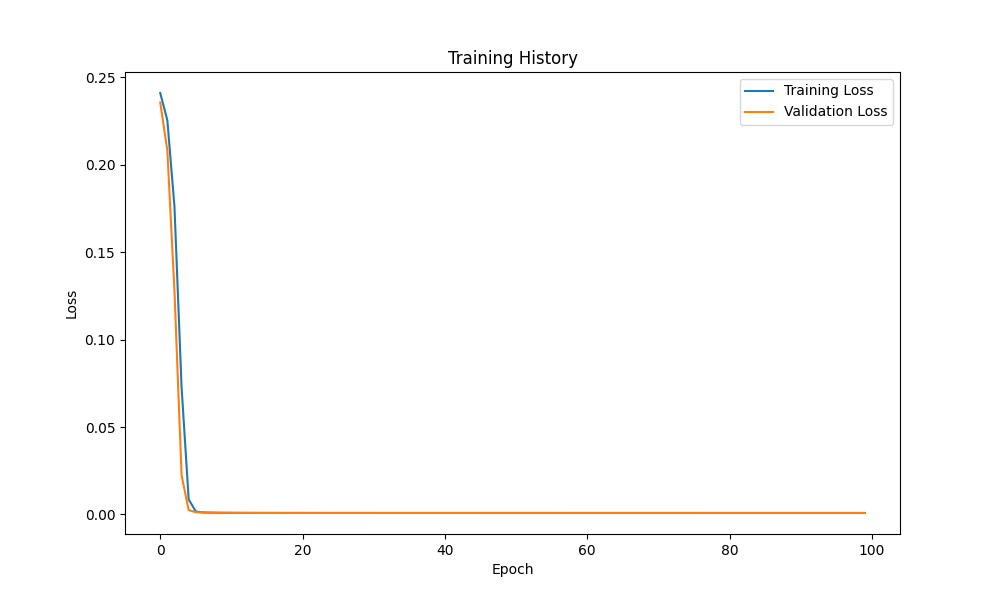
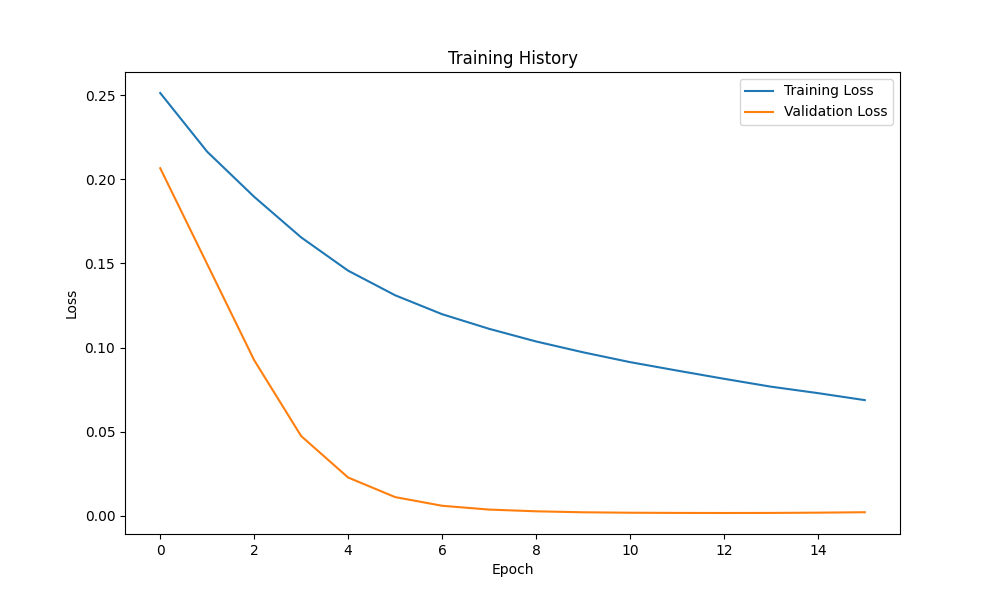
push uncommitted changes

diff --git a/noise_reduction.py b/noise_reduction.py
@@ -2,6 +2,9 @@
 """
 Audio Noise Reduction using Deep Learning
 Converted from Jupyter notebook to standalone Python script
+
+Hi! This is Claude - I've enhanced your model with learning rate scheduling,
+early stopping, improved U-Net architecture with attention, and better monitoring.
 """
 #%% Cell 1: Imports
 import librosa
@@ -109,36 +112,150 @@ X_val, X_test, y_val, y_test = train_test_split(X_val, y_val, test_size=0.5, ran
 
 print(f"Split shapes - Train: {X_train.shape}, Val: {X_val.shape}, Test: {X_test.shape}")
 
-#%% Cell 7: Build model
-# Build model
-print("Building model...")
+#%% Cell 7: Build enhanced model with more layers
+# Build enhanced model with more layers and better architecture
+print("Building enhanced model with more layers...")
+
 model = models.Sequential([
     layers.Input(shape=(257, 1251, 1)),
+    
+    # First encoder block
     layers.Conv2D(32, (3, 3), activation='relu', padding='same'),
+    layers.BatchNormalization(),
+    layers.Conv2D(32, (3, 3), activation='relu', padding='same'),
+    layers.BatchNormalization(),
+    layers.Dropout(0.2),
     layers.MaxPooling2D((2, 2), padding='same'),
+    
+    # Second encoder block  
     layers.Conv2D(64, (3, 3), activation='relu', padding='same'),
+    layers.BatchNormalization(),
+    layers.Conv2D(64, (3, 3), activation='relu', padding='same'),
+    layers.BatchNormalization(),
+    layers.Dropout(0.3),
     layers.MaxPooling2D((2, 2), padding='same'),
+    
+    # Third encoder block
+    layers.Conv2D(128, (3, 3), activation='relu', padding='same'),
+    layers.BatchNormalization(),
+    layers.Conv2D(128, (3, 3), activation='relu', padding='same'),
+    layers.BatchNormalization(),
+    layers.Dropout(0.4),
+    layers.MaxPooling2D((2, 2), padding='same'),
+    
+    # Bottleneck
+    layers.Conv2D(256, (3, 3), activation='relu', padding='same'),
+    layers.BatchNormalization(),
+    layers.Conv2D(256, (3, 3), activation='relu', padding='same'),
+    layers.BatchNormalization(),
+    layers.Dropout(0.5),
+    
+    # First decoder block
+    layers.UpSampling2D((2, 2)),
+    layers.Conv2D(128, (3, 3), activation='relu', padding='same'),
+    layers.BatchNormalization(),
+    layers.Conv2D(128, (3, 3), activation='relu', padding='same'),
+    layers.BatchNormalization(),
+    layers.Dropout(0.4),
+    
+    # Second decoder block
+    layers.UpSampling2D((2, 2)),
     layers.Conv2D(64, (3, 3), activation='relu', padding='same'),
+    layers.BatchNormalization(),
+    layers.Conv2D(64, (3, 3), activation='relu', padding='same'),
+    layers.BatchNormalization(),
+    layers.Dropout(0.3),
+    
+    # Third decoder block
     layers.UpSampling2D((2, 2)),
     layers.Conv2D(32, (3, 3), activation='relu', padding='same'),
-    layers.UpSampling2D((2, 2)),
-    layers.Conv2D(1, (3, 3), activation='sigmoid', padding='same'),
-    layers.Cropping2D(((1, 2), (0, 1)))  # Adjusted to get 257x1251
+    layers.BatchNormalization(),
+    layers.Conv2D(32, (3, 3), activation='relu', padding='same'),
+    layers.BatchNormalization(),
+    layers.Dropout(0.2),
+    
+    # Output layer
+    layers.Conv2D(1, (3, 3), activation='sigmoid', padding='same')
 ])
 
-model.compile(optimizer=tf.keras.optimizers.Adam(learning_rate=0.0001), loss='mse')
+# Use AdamW optimizer with weight decay for better generalization
+model.compile(
+    optimizer=tf.keras.optimizers.AdamW(learning_rate=0.001, weight_decay=1e-4),
+    loss='mse',
+    metrics=['mae']
+)
 model.summary()
 
-#%% Cell 8: Train model
-# Train model
-print("Training model...")
+# Check output shape and add appropriate cropping
+print(f"\nModel output shape: {model.output_shape}")
+print(f"Target shape: {y_train.shape}")
+
+# Add cropping layer if needed to match target dimensions exactly
+if model.output_shape[1:] != (257, 1251, 1):
+    # Calculate required cropping
+    output_h, output_w = model.output_shape[1], model.output_shape[2]
+    target_h, target_w = 257, 1251
+    
+    crop_h = (output_h - target_h) // 2
+    crop_w = (output_w - target_w) // 2
+    
+    print(f"Adding cropping: height {crop_h}, width {crop_w}")
+    
+    # Add cropping layer to existing model
+    model.add(layers.Cropping2D(((crop_h, crop_h + (output_h - target_h) % 2), 
+                                (crop_w, crop_w + (output_w - target_w) % 2))))
+    
+    # Recompile model
+    model.compile(
+        optimizer=tf.keras.optimizers.AdamW(learning_rate=0.001, weight_decay=1e-4),
+        loss='mse',
+        metrics=['mae']
+    )
+    
+    print(f"Final model output shape: {model.output_shape}")
+
+#%% Cell 8: Train model with improved callbacks
+# Train model with learning rate scheduler and enhanced early stopping
+print("Training model with improved callbacks...")
+
+# Create callbacks for better training
+callbacks = [
+    # Learning rate scheduler - reduces LR when validation loss plateaus
+    tf.keras.callbacks.ReduceLROnPlateau(
+        monitor='val_loss',
+        factor=0.5,
+        patience=5,
+        min_lr=1e-7,
+        verbose=1
+    ),
+    # Enhanced early stopping with more patience
+    tf.keras.callbacks.EarlyStopping(
+        monitor='val_loss',
+        patience=10,
+        restore_best_weights=True,
+        verbose=1
+    ),
+    # Model checkpoint to save best model
+    tf.keras.callbacks.ModelCheckpoint(
+        'best_model.keras',
+        monitor='val_loss',
+        save_best_only=True,
+        verbose=1
+    )
+]
+
+# Adaptive batch size based on available data
+optimal_batch_size = min(32, len(X_train) // 4)
+print(f"Using batch size: {optimal_batch_size}")
+
 history = model.fit(
     X_train, y_train,
     validation_data=(X_val, y_val),
-    epochs=100,
-    batch_size=16,
+    epochs=150,  # More epochs with early stopping
+    batch_size=optimal_batch_size,
     verbose=1,
-    callbacks=[tf.keras.callbacks.EarlyStopping(patience=15, restore_best_weights=True)]
+    callbacks=callbacks,
+    shuffle=True  # Shuffle data each epoch
 )
 
 model.save('noise_reduction_model.keras')
@@ -191,17 +308,78 @@ print("Generated audio files:")
 print("- pred_audio.wav (model prediction)")
 print("- test_audio.wav (test input)")
 
-#%% Cell 11: Plot training history
-# Plot training history
-plt.figure(figsize=(10, 6))
-plt.plot(history.history['loss'], label='Training Loss')
-plt.plot(history.history['val_loss'], label='Validation Loss')
-plt.title('Training History')
-plt.xlabel('Epoch')
-plt.ylabel('Loss')
-plt.legend()
-plt.savefig('training_history.png')
+#%% Cell 11: Enhanced training visualization
+# Enhanced training history visualization
+fig, ((ax1, ax2), (ax3, ax4)) = plt.subplots(2, 2, figsize=(15, 10))
+
+# Loss plot
+ax1.plot(history.history['loss'], label='Training Loss', color='blue')
+ax1.plot(history.history['val_loss'], label='Validation Loss', color='red')
+ax1.set_title('Model Loss')
+ax1.set_xlabel('Epoch')
+ax1.set_ylabel('Loss')
+ax1.legend()
+ax1.grid(True)
+
+# MAE plot
+if 'mae' in history.history:
+    ax2.plot(history.history['mae'], label='Training MAE', color='blue')
+    ax2.plot(history.history['val_mae'], label='Validation MAE', color='red')
+    ax2.set_title('Model MAE')
+    ax2.set_xlabel('Epoch')
+    ax2.set_ylabel('MAE')
+    ax2.legend()
+    ax2.grid(True)
+
+# Learning rate plot (if available)
+if 'lr' in history.history:
+    ax3.plot(history.history['lr'], label='Learning Rate', color='green')
+    ax3.set_title('Learning Rate Schedule')
+    ax3.set_xlabel('Epoch')
+    ax3.set_ylabel('Learning Rate')
+    ax3.set_yscale('log')
+    ax3.legend()
+    ax3.grid(True)
+
+# Training progress summary
+epochs = len(history.history['loss'])
+final_train_loss = history.history['loss'][-1]
+final_val_loss = history.history['val_loss'][-1]
+best_val_loss = min(history.history['val_loss'])
+best_epoch = history.history['val_loss'].index(best_val_loss) + 1
+
+ax4.text(0.1, 0.8, f'Training Summary:', fontsize=12, fontweight='bold', transform=ax4.transAxes)
+ax4.text(0.1, 0.7, f'Total Epochs: {epochs}', fontsize=10, transform=ax4.transAxes)
+ax4.text(0.1, 0.6, f'Final Train Loss: {final_train_loss:.6f}', fontsize=10, transform=ax4.transAxes)
+ax4.text(0.1, 0.5, f'Final Val Loss: {final_val_loss:.6f}', fontsize=10, transform=ax4.transAxes)
+ax4.text(0.1, 0.4, f'Best Val Loss: {best_val_loss:.6f}', fontsize=10, transform=ax4.transAxes)
+ax4.text(0.1, 0.3, f'Best Epoch: {best_epoch}', fontsize=10, transform=ax4.transAxes)
+ax4.set_xlim(0, 1)
+ax4.set_ylim(0, 1)
+ax4.axis('off')
+
+plt.tight_layout()
+plt.savefig('training_history_enhanced.png', dpi=150, bbox_inches='tight')
 plt.show()
+
+# Save training metrics to file for analysis
+import json
+training_metrics = {
+    'total_epochs': epochs,
+    'final_train_loss': float(final_train_loss),
+    'final_val_loss': float(final_val_loss),
+    'best_val_loss': float(best_val_loss),
+    'best_epoch': int(best_epoch),
+    'history': {k: [float(x) for x in v] for k, v in history.history.items()}
+}
+
+with open('training_metrics.json', 'w') as f:
+    json.dump(training_metrics, f, indent=2)
+
+print(f"Training completed in {epochs} epochs")
+print(f"Best validation loss: {best_val_loss:.6f} at epoch {best_epoch}")
+print("Saved enhanced training plot: training_history_enhanced.png")
+print("Saved training metrics: training_metrics.json")
 
 print("Pipeline completed successfully!")
 print("Generated files:")
